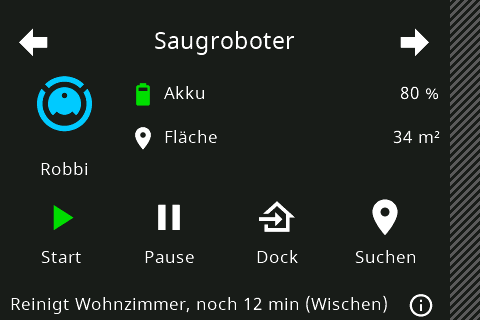
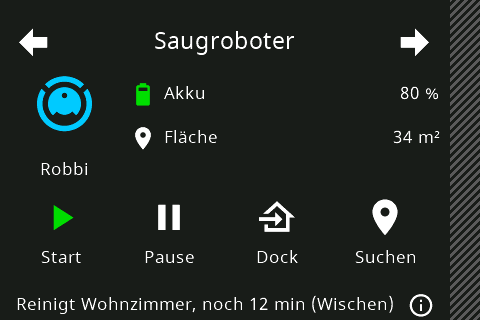
feat(hmi): center the status line on every device page
tStatus gets xcen 1 on cardDevice1 and cardDevice3 like on cardDevice2.
Test build: nspanel-v6.2.0.device9.HMI.

Changed region(s): [[0.0, 0.9062, 0.8438, 0.9688]]

diff --git a/HMI/tools/card_device.py b/HMI/tools/card_device.py
@@ -177,7 +177,7 @@ LAYOUTS = {
     # control: icon top left, two info rows right of it, four buttons, optional 2 x 2 status icons between icon and
     # info rows (the info rows switch to a narrower second set of objects while the block is shown)
     'cardDevice1': {
-        'main': (10, 68, 110, 86, 4), 'mainName': (10, 156, 110, 26, 0, 1), 'statusXcen': 0,
+        'main': (10, 68, 110, 86, 4), 'mainName': (10, 156, 110, 26, 0, 1), 'statusXcen': 1,
         # the tightest page: its 14 icon buffers hold exactly what an icon needs (ICON_NEED), 4 bytes less each
         'iconLen': ICON_NEED,
         'slots': [info_row(126, 76, 314), info_row(126, 120, 314)] + [button(10 + 108 * k, 190, 104) for k in range(4)]
@@ -197,7 +197,7 @@ LAYOUTS = {
     },
     # values: icon left, 2 x 3 info tiles, two switches
     'cardDevice3': {
-        'main': (10, 67, 100, 82, 4), 'mainName': (10, 151, 100, 26, 0, 1), 'statusXcen': 0,
+        'main': (10, 67, 100, 82, 4), 'mainName': (10, 151, 100, 26, 0, 1), 'statusXcen': 1,
         'slots': [info_tile(114 + 163 * (k % 2), 67 + 52 * (k // 2), 161) for k in range(6)]
         + [switch_row(10, 228, 213), switch_row(226, 228, 213)],
     },

diff --git a/doc/ideas/device-details/device-page-hmi.md b/doc/ideas/device-details/device-page-hmi.md
@@ -9,7 +9,7 @@ Nur EU; us-l und us-p sind nicht angepasst.
 
 ```
 PYTHONDONTWRITEBYTECODE=1 python3 HMI/tools/swipe_release_fix.py /mnt/projekte/nspanel-v6.2.0.entities5.HMI /tmp/swipe.HMI
-PYTHONDONTWRITEBYTECODE=1 python3 HMI/tools/card_device.py /tmp/swipe.HMI nspanel-v6.2.0.device8.HMI --preview doc/Pictures/device-page
+PYTHONDONTWRITEBYTECODE=1 python3 HMI/tools/card_device.py /tmp/swipe.HMI nspanel-v6.2.0.device9.HMI --preview doc/Pictures/device-page
 ```
 
 `--fields` gibt zusätzlich die Rechnung der längsten Nachricht je Seite aus (siehe „Puffer und RAM“).
@@ -19,7 +19,8 @@ Teststände: `device1` (cardDevice1 mit N=6, ohne Status-Icons), `device2` (N=10
 auch bei Typ `text`), `device5` (Long-Press `buttonPress3` und Popups in main und allen Slots), `device6`
 (`strCommand` je Seite bemessen, Empfang auf die Puffergröße begrenzt, Lauftext-Statuszeile auf cardDevice2 und 3),
 `device7` (Lauftext auch auf cardDevice1, dafür Status-Icons ohne Popup-Überschrift und kürzere Icon-Puffer),
-`device8` (Lauftext wieder entfernt, neue Kurz-Nachricht `devStatus` für die Statuszeile – aktuell; alle in
+`device8` (Lauftext wieder entfernt, neue Kurz-Nachricht `devStatus` für die Statuszeile), `device9` (Statuszeile
+auf allen drei Seiten mittig: `tStatus.xcen` 0 → 1 auf cardDevice1 und 3, sonst wie `device8` – aktuell; alle in
 `/mnt/projekte/nspanel emu/`). Die dortige `device5` hat Tim im Editor geöffnet, ein Lauftext-Objekt `g0` auf
 cardDevice1 gelegt und gespeichert (siehe „Verworfen: Lauftext“).
 
@@ -91,7 +92,7 @@ devStatus~<text>              (nur die Statuszeile, siehe „Kurz-Nachricht devS
   Umkehrung gilt nicht mehr: value, progress, status und Schalter-Icon/-Name senden, zeigen aber **keinen**
   Press-Effekt (Texte bzw. Hotspot, keine Knöpfe).
 - **Statuszeile** `tStatus`: Feld 6 von main, immer (auch wenn main ausgeblendet ist), einzeilig, Font 0, normale
-  Textfarbe. Leeres Feld = leere Zeile. Höchstens **63 Byte**. Zwischen zwei `entityUpd` ersetzt `devStatus~<text>`
+  Textfarbe, auf allen drei Seiten horizontal zentriert. Leeres Feld = leere Zeile. Höchstens **63 Byte**. Zwischen zwei `entityUpd` ersetzt `devStatus~<text>`
   nur diesen Text.
 - **value-Schrift:** Font 4 (NotoSans Bold 80) enthält Ziffern, `:`, `%`, `°`, `,`, `.`, `-`, `/`, Leerzeichen,
   Buchstaben inkl. ä/ö/ü – aber **kein `€`**. Vorschub: Ziffer 33 px, `:` 17 px, `%` 53 px, `°` 25 px, Leerzeichen 15 px.
@@ -115,8 +116,8 @@ devStatus~<text>
   }
   ```
 
-  Er setzt nur `tStatus.txt`. Leerer Text leert die Zeile. Ausrichtung und Farbe sind die des Objekts (cardDevice2
-  mittig, sonst links). Länger als 63 Byte schneidet die Nextion beim Zuweisen ab (der Adapter schickt nie mehr).
+  Er setzt nur `tStatus.txt`. Leerer Text leert die Zeile. Ausrichtung und Farbe sind die des Objekts (auf allen
+  drei Seiten mittig). Länger als 63 Byte schneidet die Nextion beim Zuweisen ab (der Adapter schickt nie mehr).
 - **Quittung:** unverändert der gemeinsame Weg hinter allen Zweigen – `udelete payloadLength+1`, dann
   `event,ack,<recvCrc>`. Der neue Zweig fasst `u[]`, `payloadLength`, `recvCrc` und `bufferPos` nicht an.
 - **Name:** `statusUpdate` ist beim Screensaver vergeben; `devStatus` kommt sonst in keiner Seite vor. Andere Seiten
@@ -231,7 +232,7 @@ Mit Status-Icons / ohne (alle vier Status-Slots leer – sieht aus wie vor den S
 | tStat10 (unten rechts) | 161 | 115 | 38 | 45 | 1 | mittig | 7 |
 | bEntity3–6 (button) | 10 / 118 / 226 / 334 | 190 | 104 | 52 | 3 | mittig | 7 |
 | tEntity3–6 | 10 / 118 / 226 / 334 | 244 | 104 | 26 | 0 | mittig | 31 |
-| tStatus | 10 | 289 | 390 | 30 | 0 | links | 63 |
+| tStatus | 10 | 289 | 390 | 30 | 0 | mittig | 63 |
 | bInfo | 404 | 288 | 36 | 32 | 1 | mittig | 7 |
 
 **Status-Block (Slots 7–10):**
@@ -301,7 +302,7 @@ passten unter Icon, Wert und Balken nicht mehr über die Statuszeile.
 | tIcon7 / tIcon8 (switch) | 10 / 226 | 236 | 34 | 34 | 1 | mittig | 10 |
 | tEntity7 / tEntity8 | 46 / 262 | 240 | 125 | 26 | 0 | links | 31 |
 | btOnOff7 / btOnOff8 | 173 / 389 | 228 | 50 | 50 | Bild 1/2 | – | 3 |
-| tStatus | 10 | 289 | 390 | 30 | 0 | links | 63 |
+| tStatus | 10 | 289 | 390 | 30 | 0 | mittig | 63 |
 | bInfo | 404 | 288 | 36 | 32 | 1 | mittig | 10 |
 
 Slot-Reihenfolge der info-Kacheln: zeilenweise, Slot 1 links oben, Slot 2 rechts oben, Slot 3 links Mitte …
@@ -413,7 +414,7 @@ Sparmöglichkeiten, falls der Editor mehr anzeigt: Icon-Puffer auch auf cardDevi
 
 ## Im Nextion-Editor prüfen
 
-1. `nspanel-v6.2.0.device8.HMI` öffnen – keine Meldung „resource file damaged“ (Prüfsummen sind per `Hmi.check()`
+1. `nspanel-v6.2.0.device9.HMI` öffnen – keine Meldung „resource file damaged“ (Prüfsummen sind per `Hmi.check()`
    geprüft).
 2. Kompilieren: keine Fehler in den Seiten cardDevice1–3 (Code ist nur Klartext, nicht kompiliert getestet).
    Besonders: `fill`/`draw` mit `defaultBcoColor`/`defaultFontColor`/`sys2` im tmSerial von cardDevice2,
@@ -425,7 +426,7 @@ Sparmöglichkeiten, falls der Editor mehr anzeigt: Icon-Puffer auch auf cardDevi
    Neu seit `device6`/`device7`: die fünf Zeilen vor `ucopy strCommand.txt,4,sys0,0` im tmSerial von cardDevice1
    und 2; `pageIcons.tTmp1.txt=""` in `tStat7–10`. Neu in `device8`: der Zweig `if(tInstruction.txt=="devStatus")`
    im tmSerial aller drei Seiten (zwischen dem `entityUpd`-Block und `pageType`); kein `gStatus` mehr, kein
-   „Component overlap“ an der Statuszeile.
+   „Component overlap“ an der Statuszeile. Neu in `device9`: `tStatus` auf cardDevice1 und 3 mit `xcen` 1 (mittig).
 3. RAM-Anzeige des Editors je Seite mit der Tabelle oben vergleichen (cardDevice1: 390 Byte Luft, cardDevice3: 327).
 4. Am Panel: `pageType~cardDevice1` und ein `entityUpd` mit allen Elementen; Tipp auf info/button/main/Schalter/info-Icon,
    ausgeblendete Elemente (`delete`), Balken bei 0/50/100 und nach Rückkehr aus einem Popup (der Adapter schickt nach
